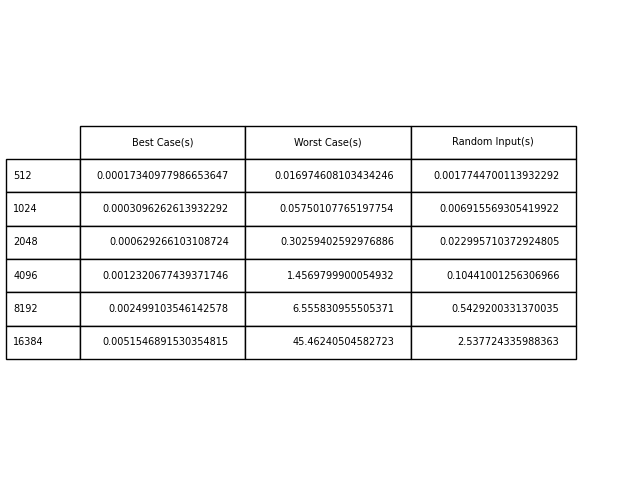
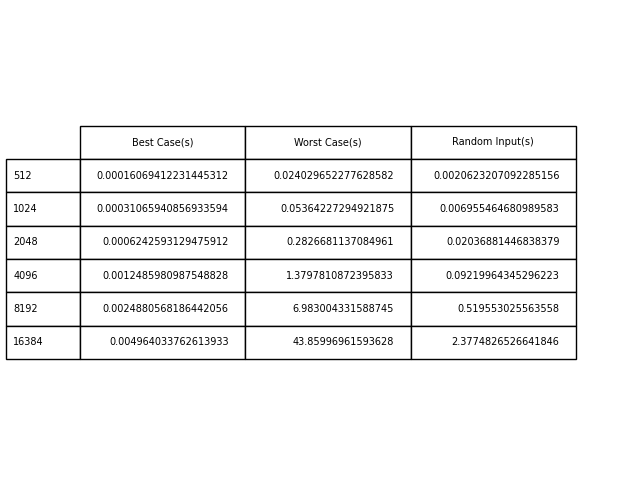
commit

diff --git a/hw5/eqsubstr.py b/hw5/eqsubstr.py
@@ -178,40 +178,39 @@ def main():
               time[2][i], "\n")
     
     # The following part are comment for submitting
-    
     # Save plot
-    # plt.figure(figsize=(8, 6))
+    plt.figure(figsize=(8, 6))
 
-    # plt.plot(sizeArr, time[0], label='Best Case', color='blue')
-    # plt.plot(sizeArr, time[1], label='Worst Case', color='green')
-    # plt.plot(sizeArr, time[2], label='Random Input', color='red')
-    # plt.xlabel('Input Size')
-    # plt.ylabel('Runtime (second)')
-    # plt.title('Matching Length Substrings')
-    # plt.legend()
+    plt.plot(sizeArr, time[0], label='Best Case', color='blue')
+    plt.plot(sizeArr, time[1], label='Worst Case', color='green')
+    plt.plot(sizeArr, time[2], label='Random Input', color='red')
+    plt.xlabel('Input Size')
+    plt.ylabel('Runtime (second)')
+    plt.title('Matching Length Substrings')
+    plt.legend()
 
-    # plt.savefig('q3.png')
-    
-    # #import packages
+    plt.savefig('q3.png')
 
-    # fig, ax =plt.subplots(1, 1)
+    #import packages
 
-    # table = pd.DataFrame()
-    # table['Best Case(s)'] = time[0]
-    # table['Worst Case(s)'] = time[1]
-    # table['Random Input(s)'] = time[2]
-    # table.index = rowname # type: ignore
-    # ax.axis('tight')
-    # ax.axis('off')
+    fig, ax =plt.subplots(1, 1)
 
-    # #plotting data
-    # table = ax.table(cellText = table.values,
-    #         colLabels = table.columns,
-    #         rowLabels = sizeArr,
-    #         loc="center")
-    # table.set_fontsize(14)
-    # table.scale(1,2)
-    # plt.savefig('q3_table.png')
+    table = pd.DataFrame()
+    table['Best Case(s)'] = time[0]
+    table['Worst Case(s)'] = time[1]
+    table['Random Input(s)'] = time[2]
+    table.index = rowname # type: ignore
+    ax.axis('tight')
+    ax.axis('off')
+
+    #plotting data
+    table = ax.table(cellText = table.values,
+            colLabels = table.columns,
+            rowLabels = sizeArr,
+            loc="center")
+    table.set_fontsize(14)
+    table.scale(1,2)
+    plt.savefig('q3_table.png')
     
     return 0
 
